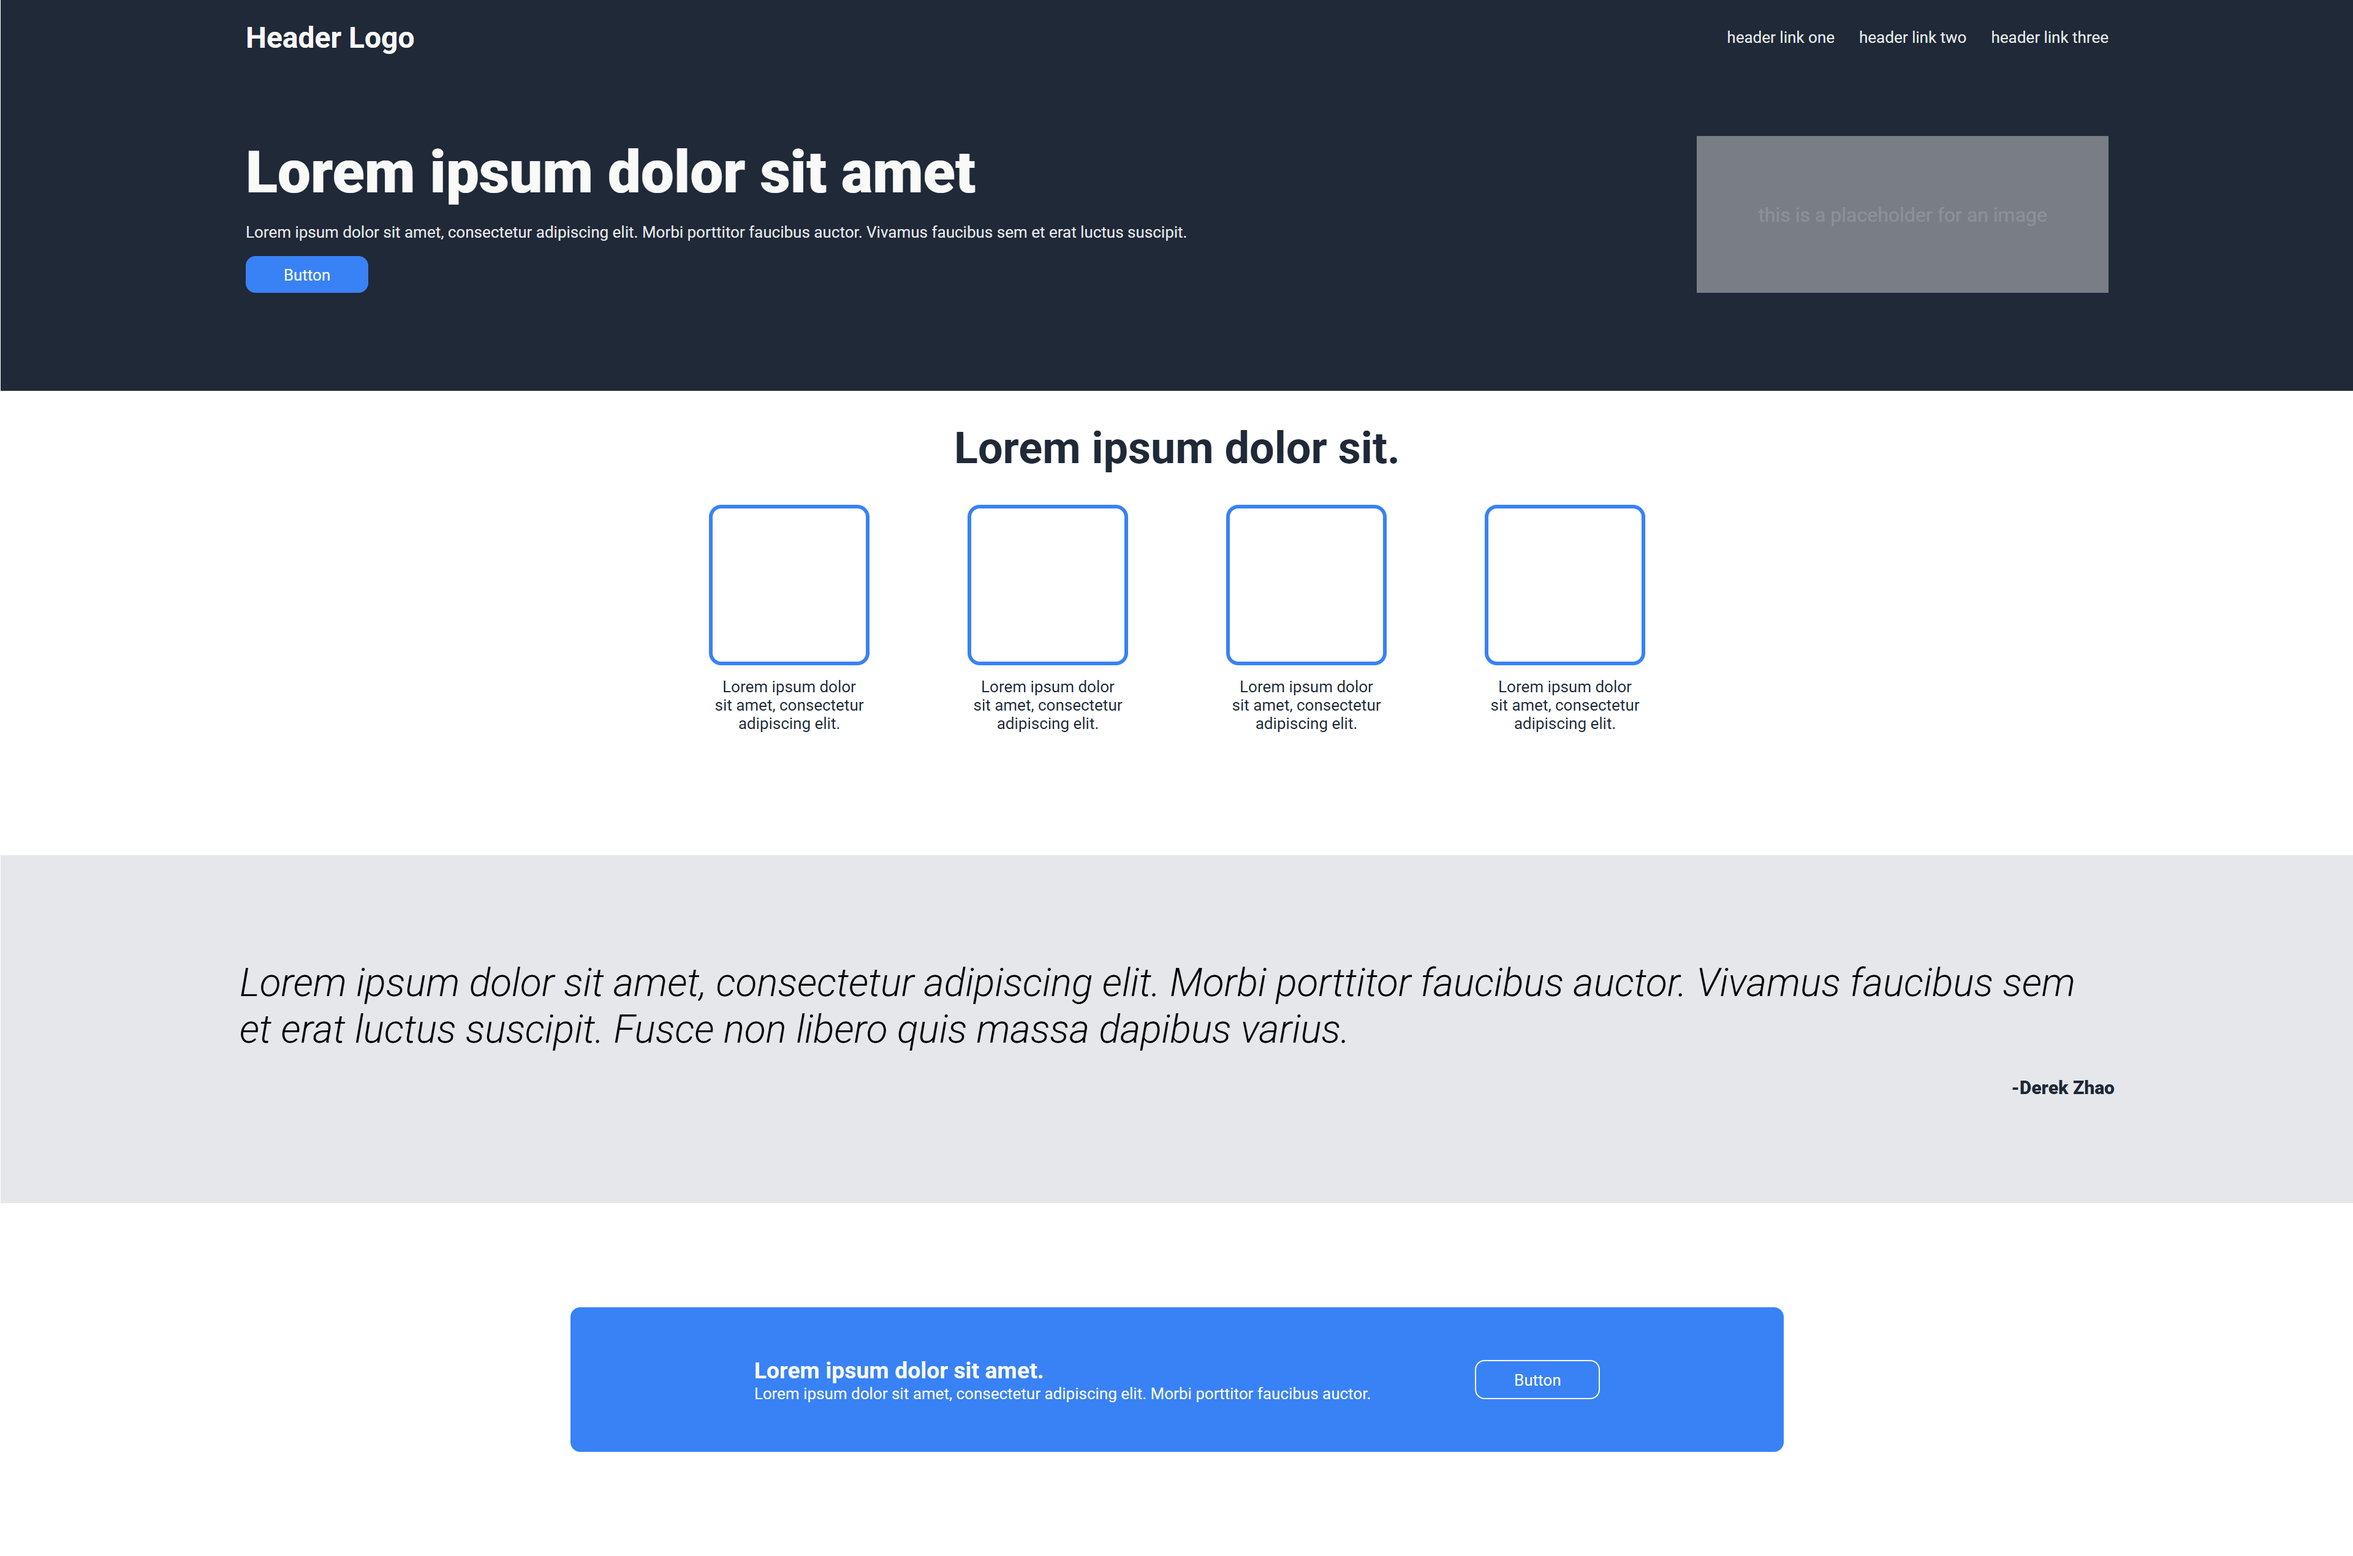
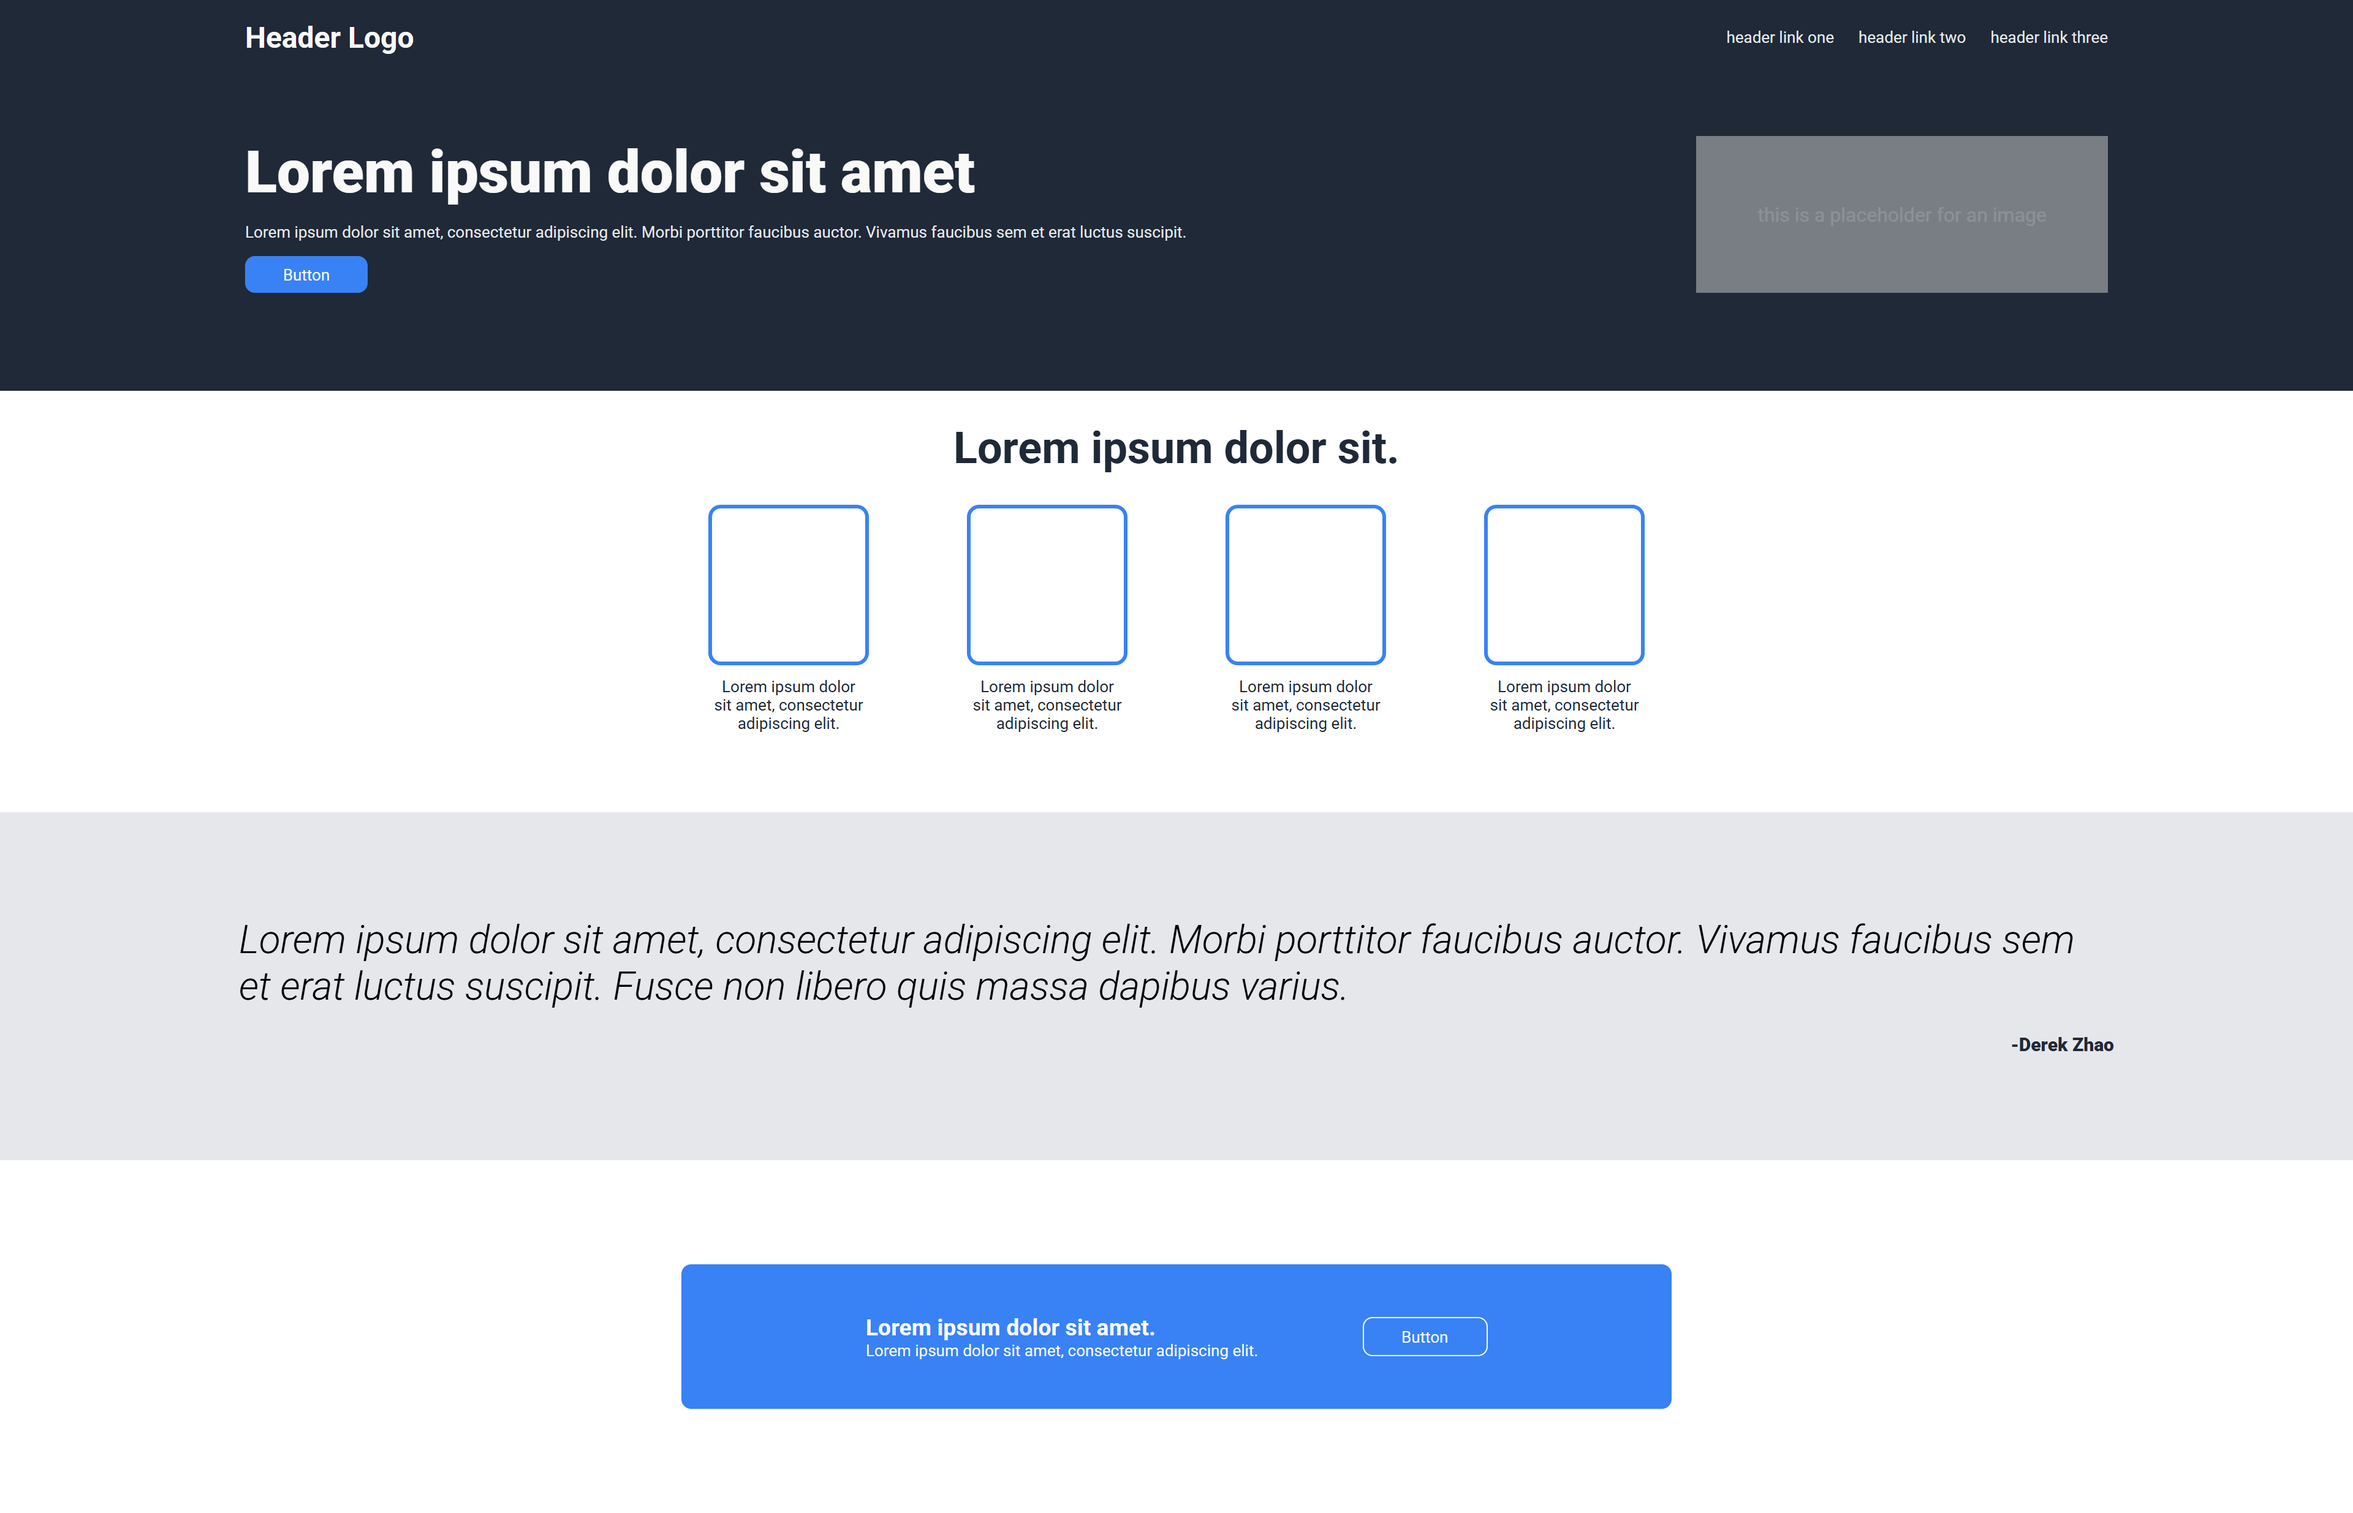
Fix bugs

diff --git a/index.html b/index.html
@@ -62,7 +62,7 @@
     <div class="advertisement">
       <div class="ad-container">
         <h3>Lorem ipsum dolor sit amet.</h3>
-        <p class="signup">Lorem ipsum dolor sit amet, consectetur adipiscing elit. Morbi porttitor faucibus auctor.</p>
+        <p class="signup">Lorem ipsum dolor sit amet, consectetur adipiscing elit.</p>
       </div>
 
       <a href="" class="button" id="signup-two">Button</a>
